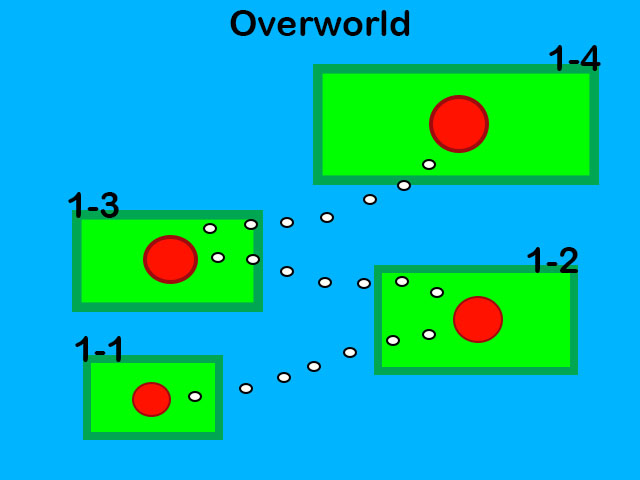
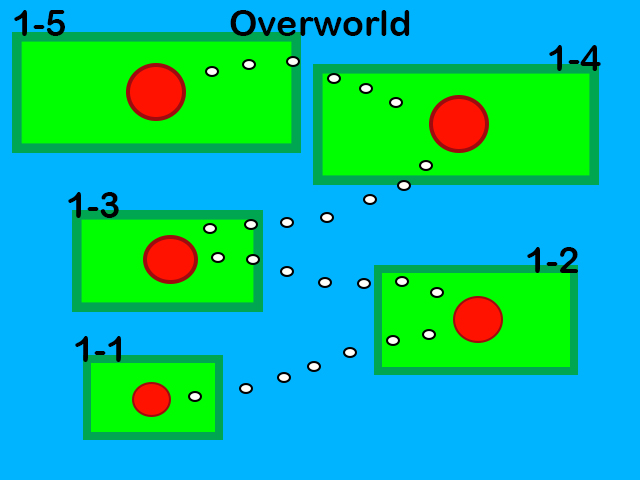
Update for August 5, to update current position, as well as updated gallery

diff --git a/src/MacroComponent/WorkExperience.jsx b/src/MacroComponent/WorkExperience.jsx
@@ -8,7 +8,7 @@ class WorkExperience extends Component {
 constructor() {
   super();
   this.state={
-    overworldsel : '1-4',
+    overworldsel : '1-5',
   };
 }
 
@@ -30,16 +30,19 @@ onPanelClick(e, evKey){
         { shape: "circle", coords: [477,319,24] },
         { shape: "circle", coords: [169,259,27] },
         { shape: "circle", coords: [458,123,30] },
+        { shape: "circle", coords: [155,92,30] },
       ]
     };
     const world11 = (this.state.overworldsel === '1-1') ? true : false;
     const world12 = (this.state.overworldsel === '1-2') ? true : false;
     const world13 = (this.state.overworldsel === '1-3') ? true : false;
     const world14 = (this.state.overworldsel === '1-4') ? true : false;
+    const world15 = (this.state.overworldsel === '1-5') ? true : false;
     const worldsty11 = (this.state.overworldsel === '1-1') ? 'success' : 'info';
     const worldsty12 = (this.state.overworldsel === '1-2') ? 'success' : 'info';
     const worldsty13 = (this.state.overworldsel === '1-3') ? 'success' : 'info';
     const worldsty14 = (this.state.overworldsel === '1-4') ? 'success' : 'info';
+    const worldsty15 = (this.state.overworldsel === '1-5') ? 'success' : 'info';
 
 
     return (
@@ -53,6 +56,26 @@ onPanelClick(e, evKey){
           <div className="immap">
             <ImageMapper src={overworld} map={worldmap} onClick={(obj, num, event) => this.onWorldClick(obj, num, event)} />
           </div>
+          <Panel collapsible expanded={world15} bsStyle={worldsty15} header="World 1-5 (December 2017 - Present) : Raytheon Space and Airborne Systems - Software Engineer"  eventKey="5" onSelect={()=>this.setState({overworldsel: "1-5"})}>
+            <div className="worldpanel">
+              Raytheon Space and Airborne Systems is a major component of Raytheon that focuses on developing airborne radars and processors, Electro-optic/infrared sensors, Electronic warfare and precision guidance systems, Active electronically scanned array radars, Space and missile defense technology, and Intelligence + surveillance + reconnaissance (ISR) systems <br/><br/>
+            •	Working together with multiple small teams to design a system that integrates an automated and manual radar data-testing simulator as well as collaborating with multiple teams to strategically remove previously implemented features in specific radar modes by analyzing the existing infrastructure. <br/>
+            •		Implementing tests that are driven by a continuous integration environment (Jenkins) and Python scripts. <br/>
+            </div>
+
+
+            <Table striped bordered condensed hover responsive className="worldpanel">
+              <tr>
+                <td><b>Tools</b></td>
+                <td>Visual Studio, AdaMulti, SlickEdit, Notepad++, TortoiseSVN, Git/SVN, PuTTY</td>
+              </tr>
+              <tr>
+                <td><b>Environment</b></td>
+                <td>C, C++, Python, JSON, XML, C#/.NET, Linux, Windows 7</td>
+              </tr>
+            </Table>
+
+          </Panel>
           <Panel collapsible expanded={world14} bsStyle={worldsty14} header="World 1-4 (May 2016 - June 2017) : Mercury Security Corporation LLC - Firmware Engineer"  eventKey="4" onSelect={()=>this.setState({overworldsel: "1-4"})}>
             <div className="worldpanel">
               Mercury Security Corporation is a leader on developing and manufacturing OEM hardware for facility security and access control. They collaborate with OEM partners to build an unmatched set of features into an open hardware platform that is unequaled for reliability, longevity, and effectiveness. <br/><br/>

diff --git a/src/MacroComponent/TechnicalSkills.jsx b/src/MacroComponent/TechnicalSkills.jsx
@@ -39,7 +39,7 @@ class TechnicalSkills extends Component {
             <tbody>
               <tr>
                 <td>Languages</td>
-                <td>C, C++, C#/.NET, Java, PHP</td>
+                <td>C, C++, Python, C#/.NET, Java, PHP</td>
               </tr>
               <tr>
                 <td>Web Technologies</td>
@@ -55,7 +55,7 @@ class TechnicalSkills extends Component {
               </tr>
               <tr>
                 <td>Tools</td>
-                <td>Eclipse, Notepad++, Visual Studios, Jira, PuTTY, WinSCP, VMWare, VirtualBox, VPL, BugTracker.NET, Jenkins, Rake</td>
+                <td>Eclipse, Notepad++, Visual Studios, SlickEdit, AdaMulti, Jenkins, Jira, PuTTY, WinSCP, VMWare, VirtualBox, VPL, BugTracker.NET, Jenkins, Rake</td>
               </tr>
               <tr>
                 <td>Methodologies/Software</td>
@@ -74,12 +74,6 @@ class TechnicalSkills extends Component {
             <td>
               <form method="get" name="downloadform" action={this.state.outresume}>
                 <Button bsStyle="primary" bsSize="large" type="submit" onClick={(i)=>this.onPressButton(1)}>Download Resume</Button>
-                <Button bsStyle="primary" bsSize="large" type="submit" onClick={(i)=>this.onPressButton(2)}>Download Technical Resume</Button>
-              </form>
-            </td>
-            <td>
-              <form method="get" >
-
               </form>
             </td>
           </tr>

diff --git a/src/MacroComponent/ModelGallery.jsx b/src/MacroComponent/ModelGallery.jsx
@@ -8,7 +8,7 @@ import {Button} from 'react-bootstrap';
 import bugbears from '../thumbnails/bugbears.jpg';
 import femcommissar from '../thumbnails/femcommissar.jpg';*/
 
-const MAX_IMGES = 9;
+const MAX_IMGES = 10;
 
 class ModelGallery extends Component {
   constructor() {
@@ -16,7 +16,7 @@ class ModelGallery extends Component {
     this.state={
       showmodal: false,
       renderedGallery: '',
-      currentSelect: 8,
+      currentSelect: 9,
     };
   }
 
@@ -26,6 +26,13 @@ class ModelGallery extends Component {
 
   arrPNL(){
     switch(this.state.currentSelect) {
+      case 9: //NMM Stormcast Eternal
+          return (
+            <FacebookProvider appId="1911577932496741">
+              <EmbeddedPost href="https://www.facebook.com/media/set/?set=a.2140593432623116.1073741849.100000174417748&type=1&l=fdd0e24248" width="500" />
+            </FacebookProvider>
+          );
+          break;
 
       case 8: //bugbears
           return (
